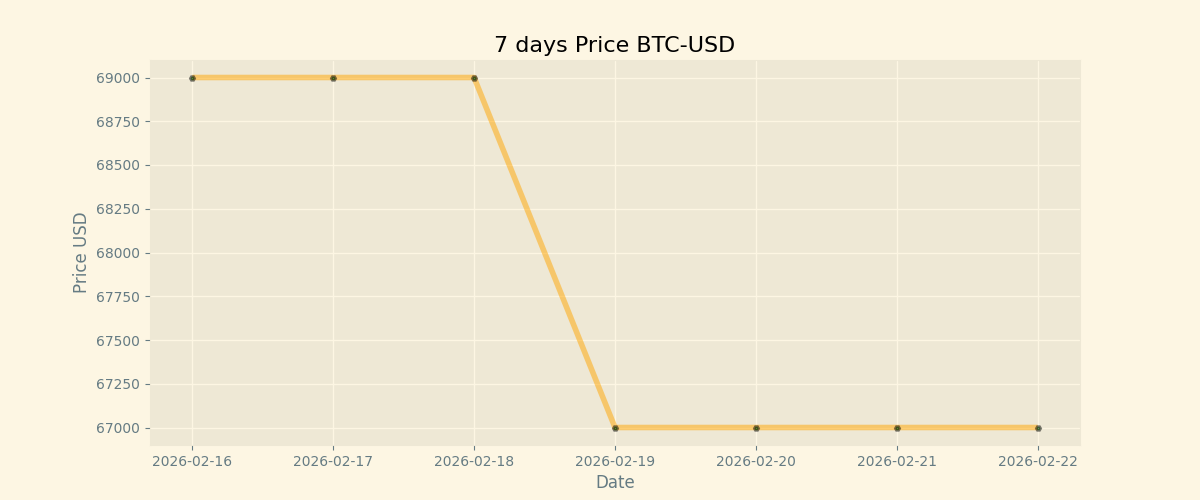
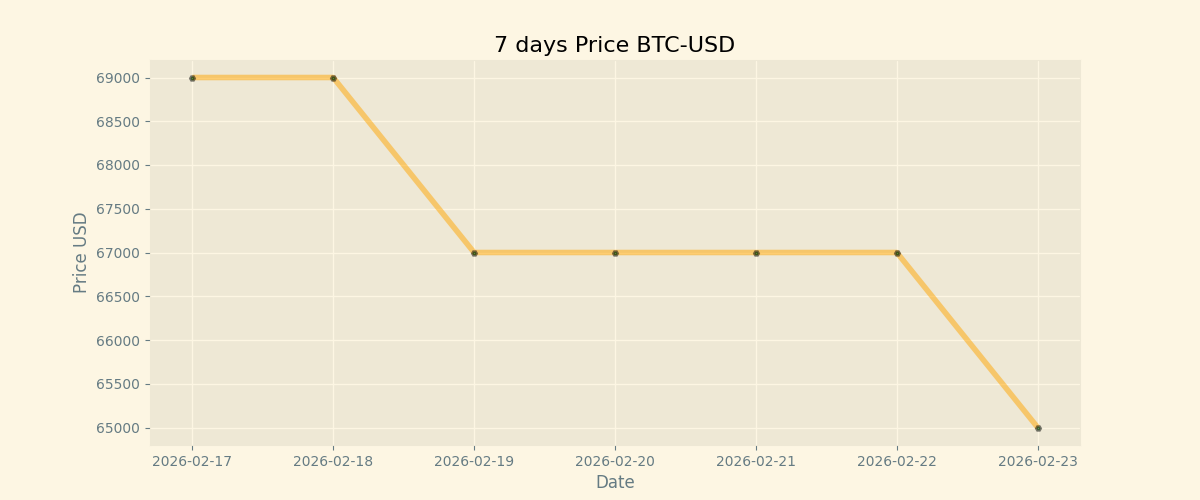
Duty Updates 2026-02-23

diff --git a/README.md b/README.md
@@ -9,8 +9,8 @@
 
 | Currency | Price           |
 | -------- | --------------- |
-| **BTC**  | **$ 67000.0** |
-| **ETH**  | **$ 1920.0** |
+| **BTC**  | **$ 65000.0** |
+| **ETH**  | **$ 1900.0** |
 
 ## BTC chart
 
